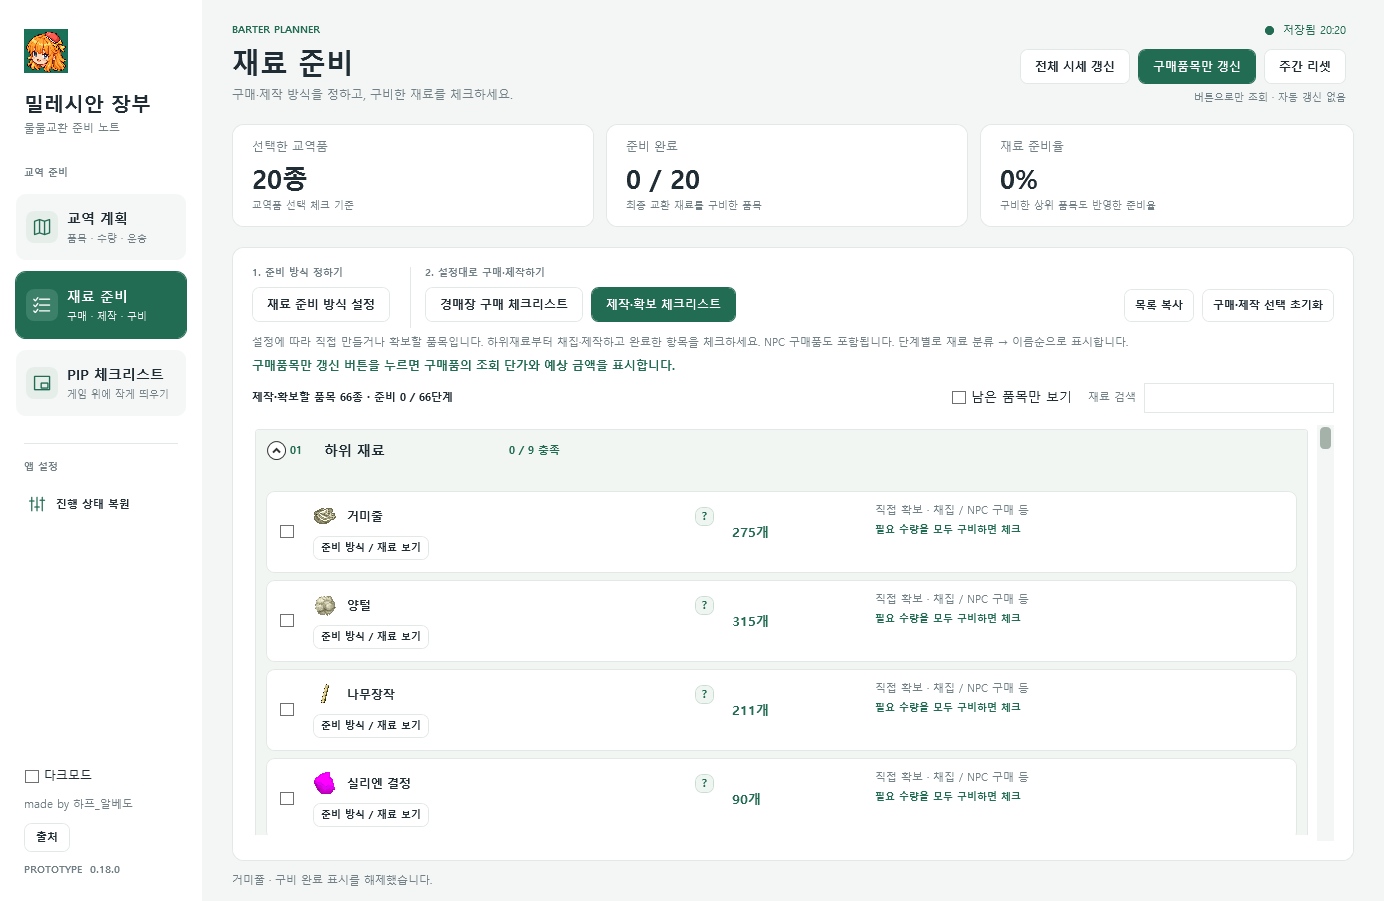
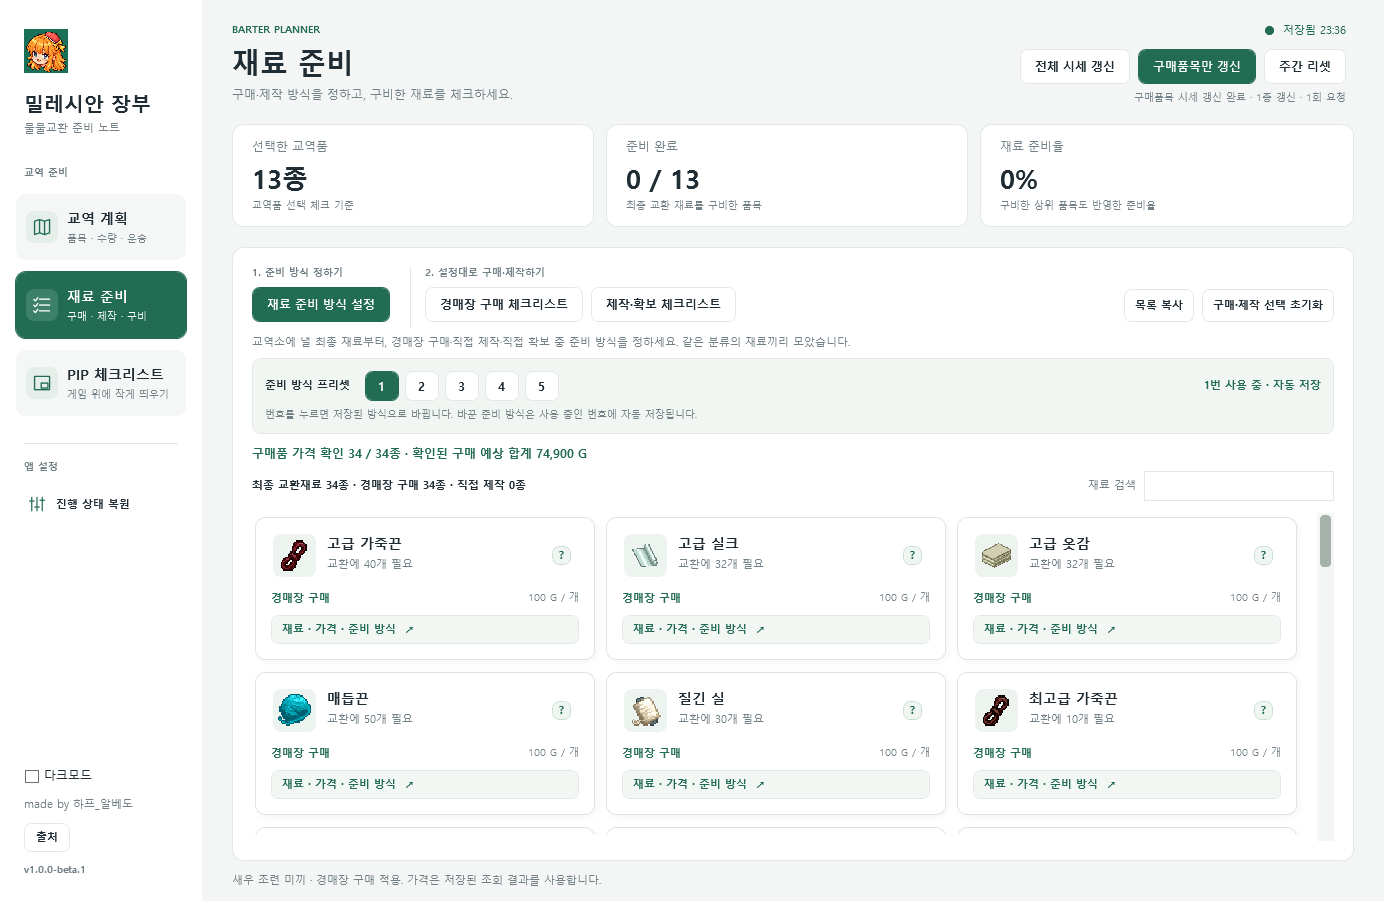
Release Milesian Ledger 1.0.0-beta.1

diff --git a/src/App.cs b/src/App.cs
@@ -288,7 +288,10 @@ namespace MabinogiBarter
             var watermark = T("made by 하프_알베도", 11, Muted, false); watermark.Margin = new Thickness(0, 0, 0, 12); bottom.Children.Add(watermark);
             var credits = Btn("출처", ShowSources, false); credits.HorizontalAlignment = HorizontalAlignment.Left; credits.FontSize = 11; credits.Padding = new Thickness(11, 7, 11, 7); credits.Margin = new Thickness(0, 0, 0, 12);
             AutomationProperties.SetName(credits, "출처 모아보기"); bottom.Children.Add(credits);
-            bottom.Children.Add(T("PROTOTYPE  0.18.2", 10, Muted, true));
+            var appAssembly = typeof(MainWindow).Assembly;
+            var displayVersion = (System.Reflection.AssemblyInformationalVersionAttribute)Attribute.GetCustomAttribute(appAssembly, typeof(System.Reflection.AssemblyInformationalVersionAttribute));
+            bottom.Children.Add(T("v" + (displayVersion != null && !String.IsNullOrWhiteSpace(displayVersion.InformationalVersion)
+                ? displayVersion.InformationalVersion : appAssembly.GetName().Version.ToString(3)), 10, Muted, true));
             Grid.SetRow(bottom, 2); side.Children.Add(bottom);
             var workspace = new Grid { Margin = new Thickness(30, 24, 30, 14) };
             workspace.RowDefinitions.Add(new RowDefinition { Height = GridLength.Auto });

diff --git a/src/AssemblyInfo.cs b/src/AssemblyInfo.cs
@@ -3,5 +3,6 @@
 [assembly: AssemblyTitle("밀레시안 장부")]
 [assembly: AssemblyProduct("밀레시안 장부")]
 [assembly: AssemblyDescription("마비노기 교역 계획과 재료 준비를 위한 장부")]
-[assembly: AssemblyVersion("0.18.2.0")]
-[assembly: AssemblyFileVersion("0.18.2.0")]
+[assembly: AssemblyVersion("1.0.0.0")]
+[assembly: AssemblyFileVersion("1.0.0.0")]
+[assembly: AssemblyInformationalVersion("1.0.0-beta.1")]

diff --git a/README.md b/README.md
@@ -4,7 +4,11 @@
 
 <img src="assets/app-icon/barter-helper.png" alt="밀레시안 장부 아이콘" width="72" />
 
-현재 버전은 **0.18.2**입니다. WPF와 C#으로 구현한 독립 실행형 데스크톱 앱입니다.
+현재 버전은 **1.0.0-beta.1 · 공개 베타**입니다. WPF와 C#으로 구현한 Windows 데스크톱 앱이며, .NET Framework 4.8 런타임을 사용합니다.
+
+**[공개 베타 실행 ZIP 다운로드](https://github.com/jang9610-cyber/MilesianLedger/releases/download/v1.0.0-beta.1/MilesianLedger-v1.0.0-beta.1.zip)** · [릴리스 페이지](https://github.com/jang9610-cyber/MilesianLedger/releases/tag/v1.0.0-beta.1) · [베타 릴리스 안내](docs/releases/v1.0.0-beta.1.md)
+
+다운로드한 ZIP을 모두 압축 해제한 뒤 `MilesianLedger` 폴더의 `MilesianLedger.exe`를 실행하세요. GitHub의 자동 생성 **Source code (zip/tar.gz)**는 개발용 소스이며 실행 파일이 없습니다.
 
 ## 주요 기능
 
@@ -29,7 +33,7 @@
 
 ## 처음 사용하기
 
-1. 배포 압축을 쓰는 경우 먼저 압축을 풀고 `MilesianLedger.exe`를 실행합니다. 실행 파일과 `data`, `assets` 폴더를 함께 보관하세요.
+1. 위의 **공개 베타 실행 ZIP**을 내려받아 모두 압축 해제한 뒤 `MilesianLedger/MilesianLedger.exe`를 실행합니다. 실행 파일과 `data`, `assets` 폴더를 함께 보관하세요.
 2. 시작 안내에서 그랜드마스터 상인 전환 여부를 확인한 뒤 메인 화면으로 들어갑니다. 이 안내는 게임 내 재능을 직접 변경하지 않습니다.
 3. **교역 계획**에서 교역품과 수량을 선택합니다. 교역 보너스·운송 설정을 조정하거나 프리셋으로 시작할 수 있습니다.
 4. **재료 준비 → 재료 준비 방식 설정**에서 어떤 재료를 구매하고 어떤 재료를 직접 준비할지 정합니다. 바꾼 준비 방식은 현재 사용 중인 번호 프리셋에 자동 저장됩니다.
@@ -38,7 +42,7 @@
 
 교역 계획 화면의 재료 목록은 필요 재료 안내용입니다. 준비 방식은 **재료 준비**에서 변경하고, 구비 완료 체크는 **재료 준비**와 **PIP 체크리스트**에서 진행합니다. 최종 교환 재료를 모두 구비하면 재료 준비율도 100%가 됩니다.
 
-자세한 설명은 [사용 안내](docs/USER_GUIDE.md)를 참고하세요.
+기존 버전에서 업데이트할 때는 앱을 닫고 실행 폴더를 백업한 다음 새 ZIP을 별도 폴더에 풉니다. 기존 `data`의 개인 진행·설정 파일만 새 폴더로 복사하면 계획과 체크 상태를 이어 쓸 수 있습니다. 복사할 파일과 자세한 절차는 [사용 안내의 설치·업데이트](docs/USER_GUIDE.md#설치와-업데이트)를 참고하세요.
 
 ## 시세 서버와 가격 표시
 
@@ -99,7 +103,7 @@ powershell -NoProfile -ExecutionPolicy Bypass -File .\scripts\package.ps1
 
 같은 버전의 ZIP을 다시 만들 때는 `package.ps1 -Force`를 사용합니다. ZIP 옆에 SHA-256 검증 파일도 생성됩니다.
 
-배포할 때는 생성된 `dist\MilesianLedger-v0.18.2.zip`을 사용하세요. 사용 중인 실행 폴더를 그대로 압축하면 개인 진행 상태가 섞일 수 있으므로 배포 스크립트로 묶는 것을 권장합니다.
+배포할 때는 생성된 `dist\MilesianLedger-v1.0.0-beta.1.zip`을 사용하세요. 사용 중인 실행 폴더를 그대로 압축하면 개인 진행 상태가 섞일 수 있으므로 배포 스크립트로 묶는 것을 권장합니다.
 
 ## 저장소 구조
 
@@ -130,7 +134,8 @@ MilesianLedger/
 ├─ docs/
 │  ├─ USER_GUIDE.md
 │  ├─ PROXY_ARCHITECTURE.md
-│  └─ DEVELOPMENT.md
+│  ├─ DEVELOPMENT.md
+│  └─ releases/              # 버전별 공개 릴리스 안내
 └─ dist/                     # 실행 빌드와 배포 ZIP · Git 제외
 ```
 
@@ -143,7 +148,7 @@ MilesianLedger/
 | `main` | 검증을 마친 배포 기준 소스 |
 | `develop` | 다음 버전을 위한 기능 추가와 수정 통합 |
 
-평소 개발은 `develop`을 기준으로 진행합니다. 여러 파일에 걸치는 기능이나 수정은 작업별 브랜치로 분리하고, 완료 후 `develop`에 병합합니다. 배포 전 검증을 마친 변경만 `main`에 반영합니다. 자세한 기준은 [개발 브랜치 안내](docs/DEVELOPMENT.md)를 참고하세요.
+평소 개발은 `develop`을 기준으로 진행합니다. 여러 파일에 걸치는 기능이나 수정은 작업별 브랜치로 분리하고, 완료 후 `develop`에 병합합니다. 배포 전 검증을 마친 변경만 `main`에 반영합니다. 공개 베타는 `v1.0.0-beta.1`과 같은 태그에 연결한 GitHub Pre-release로 배포합니다. 자세한 기준은 [개발 브랜치 안내](docs/DEVELOPMENT.md)를 참고하세요.
 
 ## 개인 파일과 Git 업로드
 

diff --git a/docs/releases/v1.0.0-beta.1.md b/docs/releases/v1.0.0-beta.1.md
@@ -1,0 +1,38 @@
+# 밀레시안 장부 1.0.0-beta.1 · 공개 베타
+
+마비노기 물물교환 교역의 품목 선택부터 재료 준비까지 관리하는 Windows 데스크톱 앱입니다. 경매장 구매와 직접 제작·확보를 섞어 계획하고, 메인 앱과 PIP 체크리스트에서 준비 상태를 함께 관리할 수 있습니다.
+
+**[Windows 실행 ZIP 다운로드](https://github.com/jang9610-cyber/MilesianLedger/releases/download/v1.0.0-beta.1/MilesianLedger-v1.0.0-beta.1.zip)** · [GitHub 릴리스](https://github.com/jang9610-cyber/MilesianLedger/releases/tag/v1.0.0-beta.1)
+
+## 주요 기능
+
+- 4개 교역소의 1~5티어 교역품 20종 선택, 목표 수량과 운송 설정
+- 완제품·하위 재료별 구매/제작/확보 설정과 공유 재료 합산
+- 경매장 구매 및 제작·확보 체크리스트, 준비율과 남은 품목 필터
+- 하위 재료부터 준비하도록 단계·재료 분류·이름순 정렬
+- 메인과 연동하는 PIP 체크리스트, 아이템 아이콘과 획득 안내
+- 전체 시세 및 구매품목만 갱신하는 두 버튼과 갱신 중지
+- 교역·준비 방식 프리셋, 자동 저장·진행 상태 복원, 다크 모드
+
+## 실행과 업데이트
+
+**Windows와 .NET Framework 4.8 런타임**을 사용합니다. 서버 주소가 포함되어 있어 앱에 API 키를 입력할 필요는 없습니다.
+
+처음 사용하는 경우 `MilesianLedger-v1.0.0-beta.1.zip`을 모두 압축 해제한 뒤 `MilesianLedger` 폴더의 `MilesianLedger.exe`를 실행하세요. 실행 파일과 `data`, `assets` 폴더를 함께 보관합니다. 별도 설치 프로그램은 없습니다.
+
+GitHub의 **Source code (zip/tar.gz)**는 개발용 소스 압축이며 바로 실행할 앱이 아닙니다.
+
+기존 버전에서 업데이트할 때는 앱과 PIP를 모두 닫고 실행 폴더 전체를 백업합니다. 새 ZIP을 별도 폴더에 푼 뒤 기존 `data`의 `progress.json`, `progress-history.json`, `auction-settings.json`, `auction-cache.json`, `pip-settings.json`, `appearance.txt` 중 존재하는 파일만 새 `data`에 복사합니다. 새 배포본의 정적 데이터와 서버 주소를 유지할 수 있도록 `data` 전체를 덮어쓰지 않습니다.
+
+## 베타 사용 시 참고 사항
+
+- PIP는 별도의 Windows 창입니다. 게임 환경에 따라 포커스가 바뀌거나 PIP 조작 후 클릭 상태가 게임에 남을 수 있습니다. 앱은 게임 입력과 메모리를 직접 제어하지 않습니다.
+- 시세는 갱신 버튼을 눌렀을 때만 조회합니다. 서버 호출 예산을 모든 사용자가 공유하므로 서버나 넥슨 한도에 도달하면 갱신이 중단될 수 있습니다.
+- 표시 가격과 비용은 저장된 최저 개당 시세에 따른 예상값입니다. 실제 매물 수량·시세 변동·제작 실패 비용 등에 따라 실제 지출이 달라질 수 있습니다.
+- 구비 체크는 필요 수량 전체를 준비했다는 표시이며 부분 보유 수량이나 게임 인벤토리를 자동으로 읽지 않습니다.
+
+자세한 사용법과 출처·권리 안내는 [프로젝트 README](https://github.com/jang9610-cyber/MilesianLedger/blob/v1.0.0-beta.1/README.md)와 [사용 안내](https://github.com/jang9610-cyber/MilesianLedger/blob/v1.0.0-beta.1/docs/USER_GUIDE.md)에서 확인할 수 있습니다.
+
+Data based on NEXON Open API. 이 앱은 NEXON의 공식 프로그램이 아닙니다.
+
+made by 하프_알베도

diff --git a/docs/DEVELOPMENT.md b/docs/DEVELOPMENT.md
@@ -7,7 +7,7 @@
 | `main` | 배포 가능한 소스의 기준 | 계산·화면 검증과 배포 패키지 확인을 마친 변경 |
 | `develop` | 다음 버전의 개발 통합 | 완료한 기능과 수정 |
 
-일상적인 개발은 `develop`에서 시작합니다. `main`에는 배포 준비를 마친 변경을 반영합니다. 두 브랜치는 처음에는 같은 커밋을 가리키며, 이후 개발 내용을 커밋하면 이력이 나뉩니다.
+일상적인 개발은 `develop`에서 시작합니다. `main`에는 배포 준비를 마친 변경을 반영합니다. 작업 중인 변경은 배포 태그와 분리해 관리합니다.
 
 브랜치는 소스 이력을 구분합니다. 같은 작업 폴더에서 브랜치를 전환해도 Git에서 제외한 `dist/` 빌드와 개인 진행 상태가 브랜치별로 분리되거나 자동으로 다시 빌드되지는 않습니다. 특정 브랜치의 앱이 필요하면 해당 브랜치로 전환한 뒤 빌드하세요.
 
@@ -28,7 +28,7 @@
 1. `develop`에서 작업 브랜치를 만듭니다. 간단한 문서 정리는 `develop`에서 바로 진행할 수 있습니다.
 2. 변경과 관련된 검증을 실행한 뒤 커밋하고 `develop`에 병합합니다.
 3. 배포 준비 시 계산·화면 검증을 실행하고, `main`에 변경을 반영한 뒤 배포 패키지를 만듭니다.
-4. 배포 ZIP은 GitHub Releases 등 별도 배포 항목에 첨부합니다. 소스 브랜치에 실행 파일이나 개인 데이터를 포함하지 않습니다.
+4. 배포할 `main` 커밋에 버전 태그를 만들고 같은 태그의 GitHub Release에 실행 ZIP과 SHA-256 파일을 첨부합니다. 소스 브랜치에 실행 파일이나 개인 데이터를 포함하지 않습니다.
 
 ```powershell
 # 개발 기준 브랜치로 전환
@@ -40,5 +40,11 @@ powershell -NoProfile -ExecutionPolicy Bypass -File .\scripts\test.ps1 -IncludeU
 # 현재 브랜치의 배포 ZIP 생성
 powershell -NoProfile -ExecutionPolicy Bypass -File .\scripts\package.ps1
 ```
+
+## 베타 버전과 릴리스 태그
+
+공개 베타는 `1.0.0-beta.1` 형식의 버전을 사용하며, 배포 태그는 `v1.0.0-beta.1`처럼 앞에 `v`를 붙입니다. 해당 태그에 연결한 GitHub Release를 **Pre-release**로 표시합니다. 다음 베타는 별도 버전과 태그로 발행하며 이미 배포한 태그를 다른 커밋으로 옮기지 않습니다.
+
+릴리스 안내는 `docs/releases/버전태그.md`에서 관리합니다. 버전 표기·실행 파일 정보·ZIP 이름·릴리스 안내가 같은 버전을 가리키는지 확인합니다. 실행 ZIP은 `scripts/package.ps1`로 만들며, GitHub가 자동 제공하는 **Source code (zip/tar.gz)**와 구분해 첨부합니다. 자동 소스 압축에는 실행 파일이 없으므로 다운로드 안내는 `MilesianLedger-v1.0.0-beta.1.zip` 같은 실행 ZIP을 직접 가리킵니다.
 
 Worker를 변경한 경우에는 `server/cloudflare/worker-tools.ps1 test`로 서버 검증도 실행합니다. Git 브랜치를 만들거나 병합하는 것만으로 GitHub 업로드나 Cloudflare 배포가 실행되지는 않습니다. 원격 저장소 업로드와 Worker 배포는 각각 별도 작업입니다.

diff --git a/docs/USER_GUIDE.md b/docs/USER_GUIDE.md
@@ -1,6 +1,29 @@
 # 밀레시안 장부 사용 안내
 
-마비노기 물물교환 교역을 준비하는 Windows 앱입니다. `MilesianLedger.exe`와 같은 위치에 있는 `data`, `assets` 폴더를 함께 보관하세요.
+**1.0.0-beta.1 공개 베타** 사용 안내입니다. Windows와 .NET Framework 4.8 런타임에서 실행하며, `MilesianLedger.exe`와 같은 위치에 있는 `data`, `assets` 폴더를 함께 보관하세요.
+
+## 설치와 업데이트
+
+처음 설치할 때는 [공개 베타 실행 ZIP](https://github.com/jang9610-cyber/MilesianLedger/releases/download/v1.0.0-beta.1/MilesianLedger-v1.0.0-beta.1.zip)을 내려받아 원하는 폴더에 모두 압축 해제한 뒤 `MilesianLedger/MilesianLedger.exe`를 실행합니다. 압축 파일 내부에서 바로 실행하지 마세요. 별도 설치 프로그램은 없습니다.
+
+[릴리스 페이지](https://github.com/jang9610-cyber/MilesianLedger/releases/tag/v1.0.0-beta.1)의 **Source code (zip/tar.gz)**는 개발용 소스입니다. 앱을 바로 사용하려면 파일 이름이 `MilesianLedger-v1.0.0-beta.1.zip`인 첨부 파일을 선택하세요.
+
+기존 버전의 계획과 설정을 이어 쓰려면 다음 순서로 업데이트합니다.
+
+1. 메인 앱과 PIP를 모두 닫고, 기존 실행 폴더 전체를 백업합니다.
+2. 새 실행 ZIP을 **별도 폴더**에 모두 압축 해제합니다.
+3. 기존 실행 폴더의 `data`에서 아래 개인 파일 중 존재하는 것만 새 실행 폴더의 `data`에 복사합니다.
+
+| 개인 파일 | 저장 내용 |
+| --- | --- |
+| `progress.json` | 교역 계획·프리셋·준비 방식·체크 상태 |
+| `progress-history.json` | 진행 상태 복원 기록 |
+| `auction-settings.json` | 경매장 품목명 매핑·조회 설정 |
+| `auction-cache.json` | 저장한 경매장 시세 |
+| `pip-settings.json` | PIP 창 설정 |
+| `appearance.txt` | 화면 모드 설정 |
+
+새 앱을 실행해 계획과 체크 상태가 표시되는지 확인합니다. `data` 폴더 전체를 덮어쓰지 말고 위 파일만 옮기세요. `barter-data.json`, `item-acquisition.json`, `trade-planning.json`, `auction-proxy.json`은 새 배포본의 데이터와 서버 설정을 사용합니다. API 키 파일은 필요하지 않습니다.
 
 ## 1. 교역 계획 정하기
 
